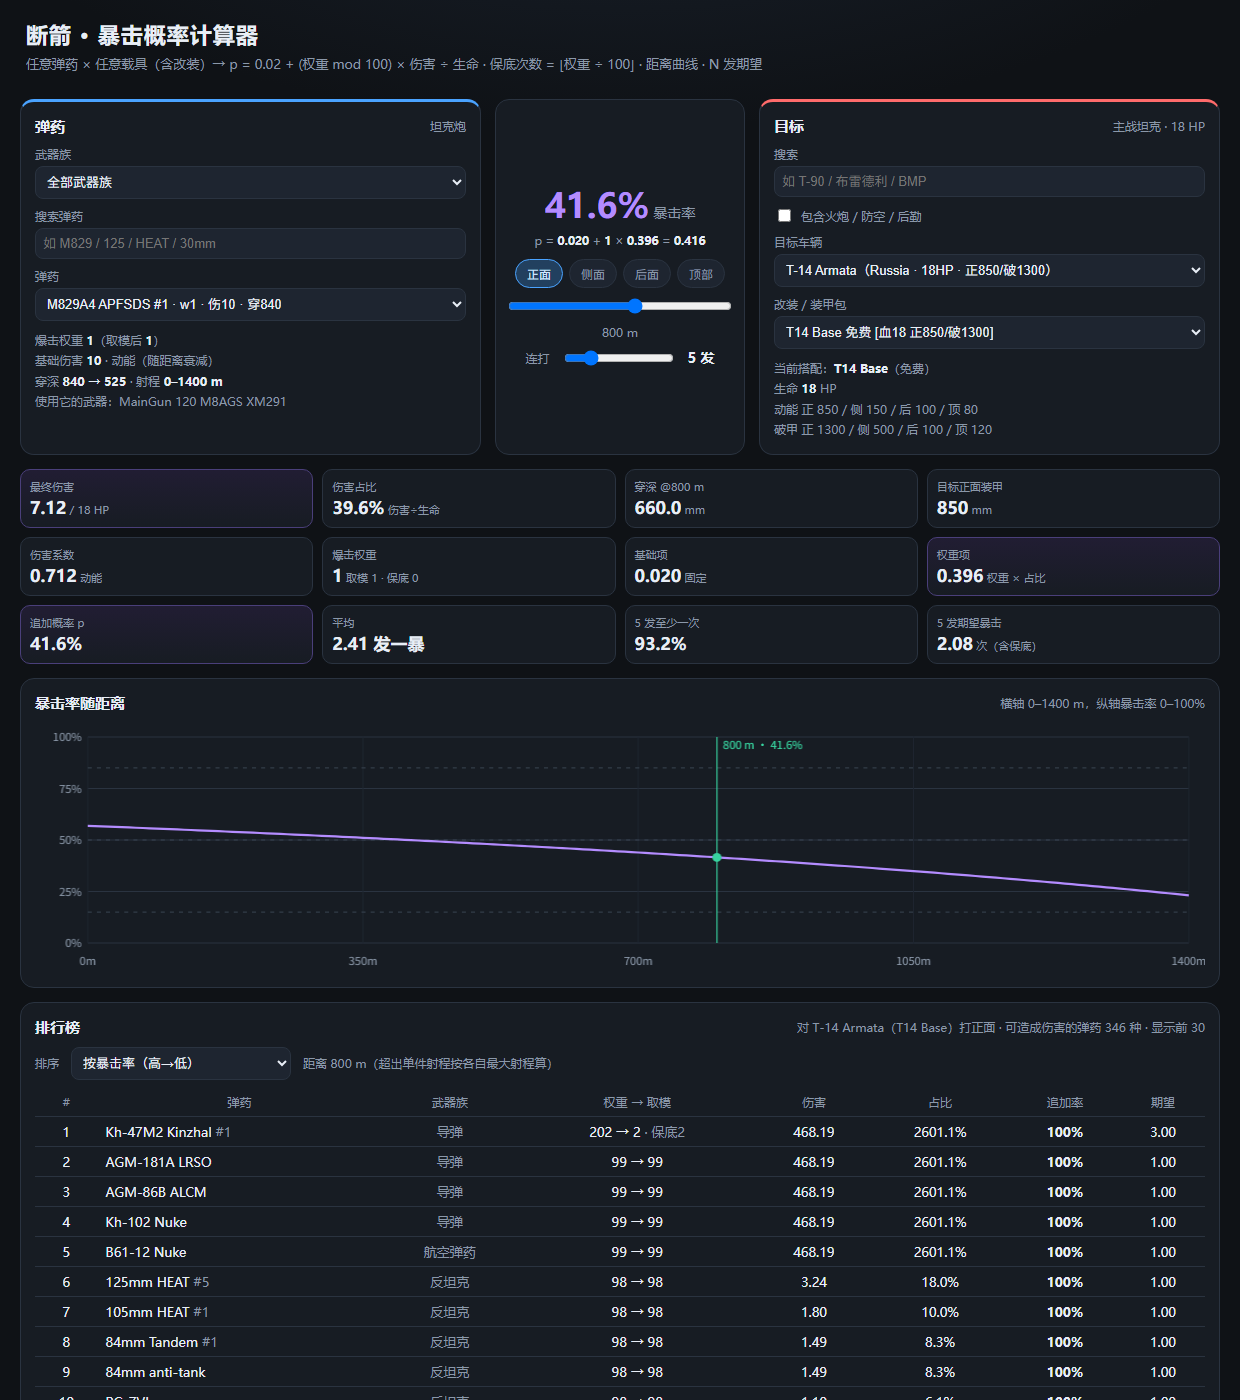
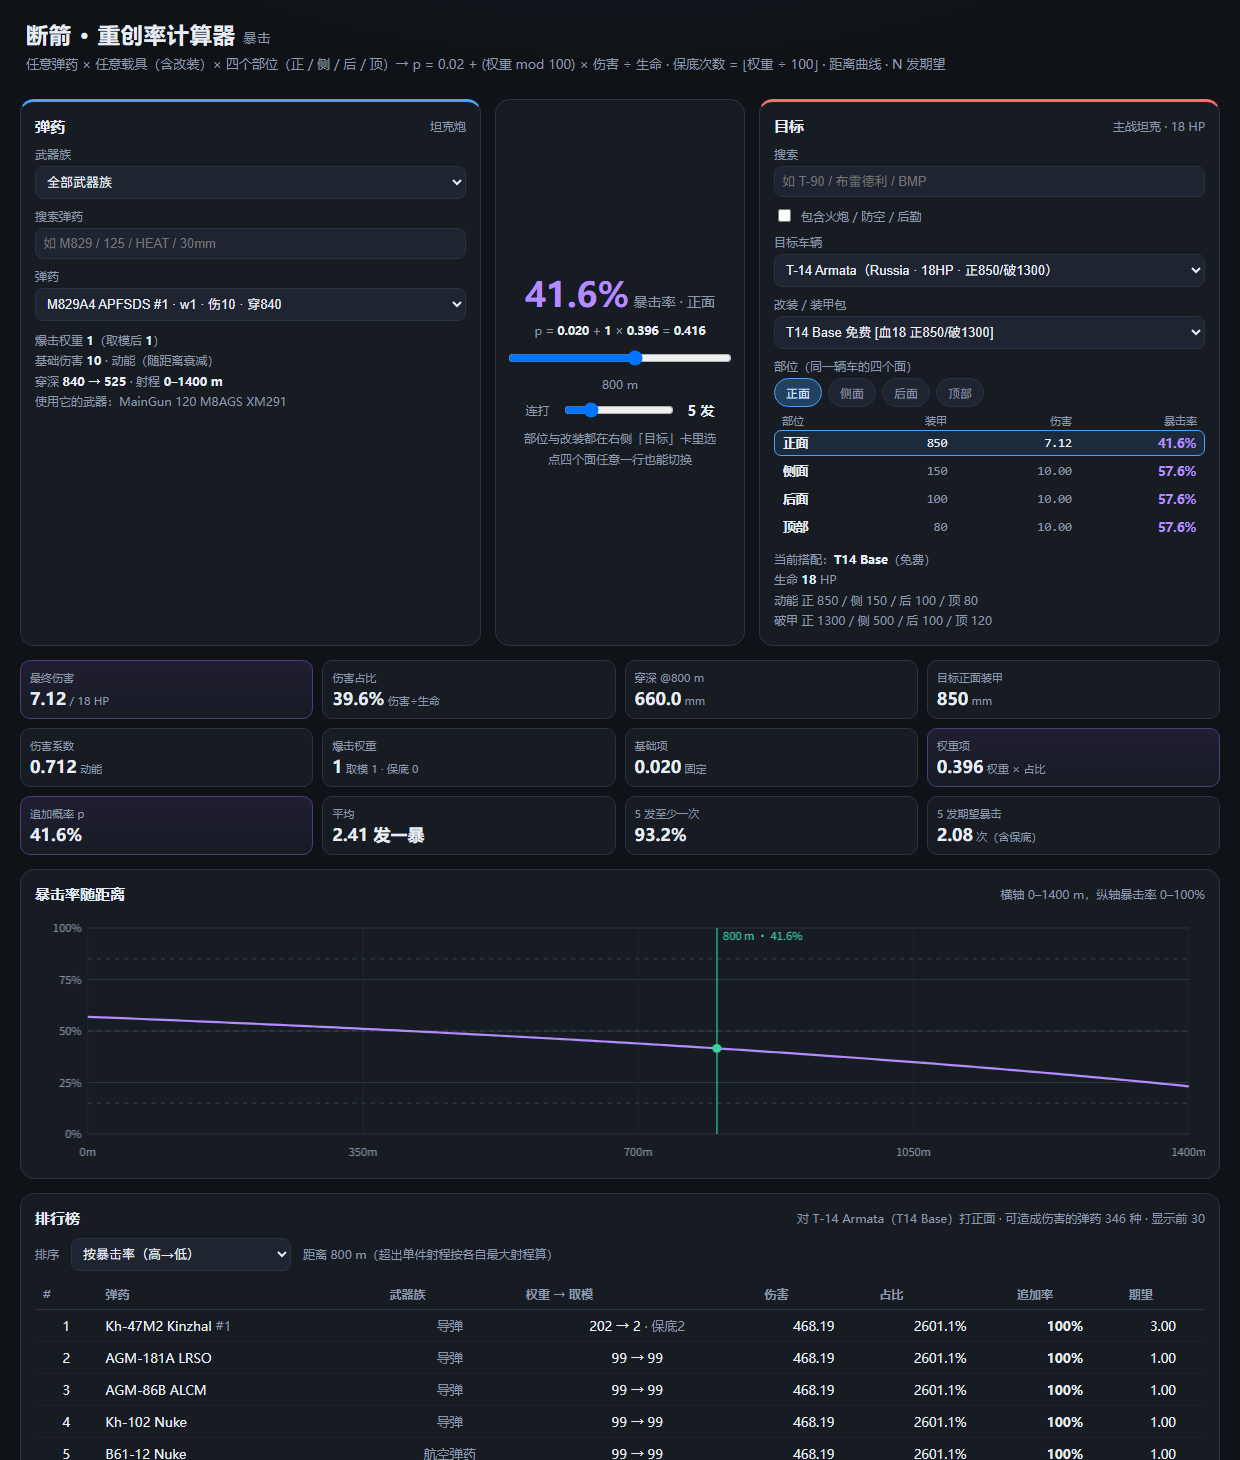
feat: 部位选择移到「目标」卡的改件下方，并列出同一辆车四个面
- 中间面板的部位按钮移到右侧目标卡（改装 / 装甲包 下面）
- 新增四部位一览：正面 / 侧面 / 后面 / 顶部的装甲、伤害、暴击率，点行切换
- 大数字旁标注当前部位（如「41.6% 暴击率 · 正面」）
- 补「部件损坏的实际效果」表与说明（BuffConfig 倍率）
- README 同步：部位模块、02b 速查图；界面截图更新

diff --git a/index.html b/index.html
@@ -34,10 +34,22 @@
   .mid .big small{font-size:14px;color:var(--dim);font-weight:400}
   .mid .formula{font-size:11.5px;color:var(--dim);text-align:center;line-height:1.7}
   .mid .formula b{color:var(--txt)}
-  .secbtns{display:flex;gap:6px;flex-wrap:wrap;justify-content:center}
+  .secbtns{display:flex;gap:6px;flex-wrap:wrap;justify-content:flex-start;margin:2px 0 6px}
   .secbtns button{background:var(--panel2);border:1px solid var(--line);color:var(--dim);
       border-radius:999px;padding:5px 11px;font-size:12px;cursor:pointer}
   .secbtns button.on{background:#22405f;border-color:var(--blue);color:#cfe6ff}
+  .parttbl{display:flex;flex-direction:column;gap:2px;margin:0 0 8px}
+  .parttbl .ph,.parttbl .pr{display:grid;grid-template-columns:40px 1fr 1fr 1fr;gap:4px;align-items:center}
+  .parttbl .ph{font-size:11px;color:var(--dim);padding:0 8px}
+  .parttbl .ph span{text-align:right}
+  .parttbl .ph span:first-child{text-align:left}
+  .parttbl .pr{padding:4px 8px;border:1px solid transparent;border-radius:7px;
+      cursor:pointer;font-size:12.5px;color:var(--dim)}
+  .parttbl .pr:hover{background:var(--panel2)}
+  .parttbl .pr.on{background:#1c2b3c;border-color:var(--blue);color:var(--txt)}
+  .parttbl .pr .nm{font-weight:600;color:var(--txt)}
+  .parttbl .pr .n{text-align:right;font-family:Consolas,monospace}
+  .parttbl .pr .c{text-align:right;color:var(--violet);font-weight:700}
   .stats{display:grid;grid-template-columns:repeat(4,1fr);gap:9px;margin-top:14px}
   @media (max-width:1100px){.stats{grid-template-columns:repeat(3,1fr)}}
   @media (max-width:680px){.stats{grid-template-columns:repeat(2,1fr)}}
@@ -61,12 +73,19 @@
   footer{margin-top:16px;color:var(--dim);font-size:12px;line-height:1.9}
   code{background:#0b0f14;border:1px solid var(--line);border-radius:4px;padding:1px 5px;color:#cfe6ff}
   .ok{color:var(--good)} .warn{color:var(--warn)} .bad{color:var(--bad)} .dim{color:var(--dim)}
+  .card table th{padding:7px 8px;text-align:left;font-size:12px;color:var(--dim);
+               border-bottom:1px solid var(--line);font-weight:600}
+  .card table td{padding:7px 8px;border-bottom:1px solid #1b232d}
+  .card table tr:last-child td{border-bottom:none}
+  .card table .r{text-align:right;font-family:Consolas,monospace}
+  .card table .warn{color:var(--warn);font-family:"Microsoft YaHei",sans-serif}
+  .card code{background:#0e1319;padding:1px 5px;border-radius:4px;font-size:11.5px;color:#b9c6d4}
 </style>
 </head>
 <body>
 <header>
   <h1>断箭 · 重创率计算器 <span style='font-size:13px;color:var(--dim);font-weight:400'>暴击</span></h1>
-  <div class="sub">任意弹药 × 任意载具（含改装）→ p = 0.02 + (权重 mod 100) × 伤害 ÷ 生命 · 保底次数 = ⌊权重 ÷ 100⌋ · 距离曲线 · N 发期望</div>
+  <div class="sub">任意弹药 × 任意载具（含改装）× 四个部位（正 / 侧 / 后 / 顶）→ p = 0.02 + (权重 mod 100) × 伤害 ÷ 生命 · 保底次数 = ⌊权重 ÷ 100⌋ · 距离曲线 · N 发期望</div>
 </header>
 <main>
   <div class="grid">
@@ -84,7 +103,6 @@
     <div class="mid">
       <div class="big" id="bigP">—</div>
       <div class="formula" id="formula"></div>
-      <div class="secbtns" id="secBtns"></div>
       <input type="range" id="dist" min="0" max="1600" value="800">
       <div class="tag" id="distLabel">800 m</div>
       <div class="row" style="justify-content:center">
@@ -92,6 +110,7 @@
         <input type="range" id="nShots" min="1" max="20" value="5" style="width:110px">
         <b id="nLabel">5 发</b>
       </div>
+      <div class="tag" style="text-align:center;line-height:1.7">部位与改装都在右侧「目标」卡里选<br>点四个面任意一行也能切换</div>
     </div>
 
     <div class="card b">
@@ -105,6 +124,9 @@
       <select id="target"></select>
       <label>改装 / 装甲包</label>
       <select id="tgtOpt"></select>
+      <label>部位（同一辆车的四个面）</label>
+      <div class="secbtns" id="secBtns"></div>
+      <div class="parttbl" id="partTbl"></div>
       <div class="tagline" id="tgtInfo"></div>
     </div>
   </div>
@@ -135,6 +157,27 @@
     <div>伤害用与《坦克对决计算器》《步兵反坦克计算器》同一套：动能 <code>pen≥armor→全额</code>，否则 <code>max(2−armor/pen, 0.1)</code>；破甲 <code>pen²/(pen²+armor²)</code>；动能穿深按 <code>2×(射程−最小射程)</code> 线性衰减，破甲不衰减。</div>
     <div class="warn">注意：暴击只对<b>车辆</b>生效（需要“重创”组件），步兵/飞机不在此列；本页不计 APS 拦截与命中率，也不含模块损坏、乘员技能。排行榜里超出单件射程的弹药按各自最大射程结算。</div>
   </footer>
+  <section class="card" style="margin-top:14px">
+    <h2>部件损坏的实际效果 <span class="tag">倍率乘在目标身上，不进伤害计算</span></h2>
+    <table style="width:100%;border-collapse:collapse;font-size:13px;margin-top:4px">
+      <thead>
+        <tr><th>类型</th><th class="r">黄 minor</th><th class="r">红 major</th></tr>
+      </thead>
+      <tbody>
+      <tr><td>装填 Loading</td><td class="r">装填时间 ×1.5</td><td class="r">×2.0</td></tr>
+      <tr><td>瞄准 AimTime</td><td class="r">瞄准时间 ×1.5</td><td class="r">×2.0</td></tr>
+      <tr><td>观瞄 Optics</td><td class="r">视野 / 探测 ×0.66</td><td class="r">×0.33</td></tr>
+      <tr><td>机动 Mobility</td><td class="r">速度 ×0.75 · 转向 ×0.5</td><td class="r warn">直接瘫痪（不能动）</td></tr>
+      <tr><td>散布 Dispersion</td><td class="r">散布 ×1.15</td><td class="r">×1.52</td></tr>
+      </tbody>
+    </table>
+    <p style="margin:10px 0 0;color:var(--dim);font-size:12px;line-height:1.6">
+      数值读自 <code>BuffConfig</code>（资产偏移 0x29F938E4 / 0x2AA24D34，两处一致）：
+      0x40 MinorAimTime 1.5 / 0x44 MajorAimTime 2.0 · 0x48 MinorOptics 0.66 / 0x4C MajorOptics 0.33 ·
+      0x50 MinorMobility 0.75 / 0x54 Rotation 0.5 · 0x58 MinorDispersion 1.15 / 0x5C MajorDispersion 1.52 ·
+      0x60 MinorLoading 1.5 / 0x64 MajorLoading 2.0。<b>没有 MajorMobility 字段</b> —— 红机动直接瘫痪、不能动，不是乘倍率。
+    </p>
+  </section>
 </main>
 
 <footer class="credit">
@@ -349,6 +392,26 @@ var FICalc = (function (root) {
       box.appendChild(b);
     });
   }
+  function renderParts(a, t) {
+    var box = $("partTbl");
+    if (!box) return;
+    if (!a || !t) { box.innerHTML = ""; return; }
+    var h = '<div class="ph"><span>部位</span><span>装甲</span><span>伤害</span><span>暴击率</span></div>';
+    Object.keys(SECTOR).forEach(function (s) {
+      var r = FICalc.resolve(a, t, s, state.dist);
+      var on = state.sector === s ? " on" : "";
+      var crit = r.noFire ? "—" : (r.crit >= 0.9995 ? "100%" : pct(r.crit, 1));
+      h += '<div class="pr' + on + '" data-s="' + s + '" title="点这里切到' + SECTOR[s] + '">' +
+        '<span class="nm">' + SECTOR[s] + '</span>' +
+        '<span class="n">' + (r.kind === "ignore" ? "—" : Math.round(r.armor)) + '</span>' +
+        '<span class="n">' + (r.noFire ? "不开火" : fnum(r.dmg, 2)) + '</span>' +
+        '<span class="c">' + crit + '</span></div>';
+    });
+    box.innerHTML = h;
+    Array.prototype.forEach.call(box.querySelectorAll(".pr"), function (el) {
+      el.onclick = function () { state.sector = el.getAttribute("data-s"); update(); };
+    });
+  }
   function stat(k, v, unit, cls) {
     return '<div class="stat ' + (cls || "") + '"><div class="k">' + k + '</div><div class="v">' + v +
       (unit ? '<small> ' + unit + '</small>' : '') + '</div></div>';
@@ -367,9 +430,13 @@ var FICalc = (function (root) {
     $("nLabel").textContent = state.n + " 发";
 
     var r = FICalc.resolve(a, t, state.sector, state.dist);
+    renderParts(a, t);
     var p = r.crit;
 
-    $("bigP").innerHTML = p >= 0.9995 ? "100%<small> 必暴</small>" : pct(p, 1) + "<small> 暴击率</small>";
+    var secLab = " · " + SECTOR[state.sector];
+    $("bigP").innerHTML = p >= 0.9995
+      ? "100%<small> 必暴" + secLab + "</small>"
+      : pct(p, 1) + "<small> 暴击率" + secLab + "</small>";
     $("formula").innerHTML = r.noFire
       ? "<b class='bad'>不会开火</b>（穿深不足以造成伤害）"
       : "p = <b>0.020</b> + <b>" + fnum(r.wEff, 0) + "</b> × <b>" + fnum(r.ratio, 3) + "</b> = <b>" + fnum(p, 3) + "</b>"
